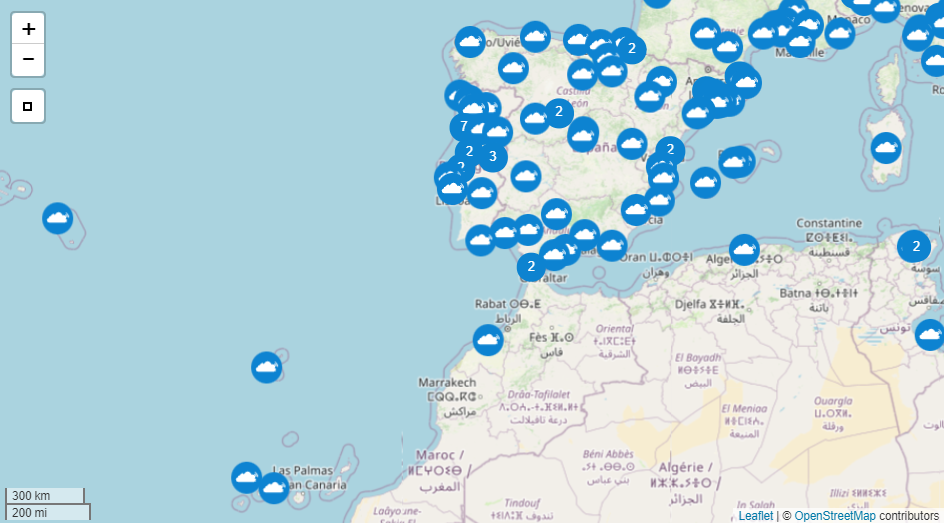
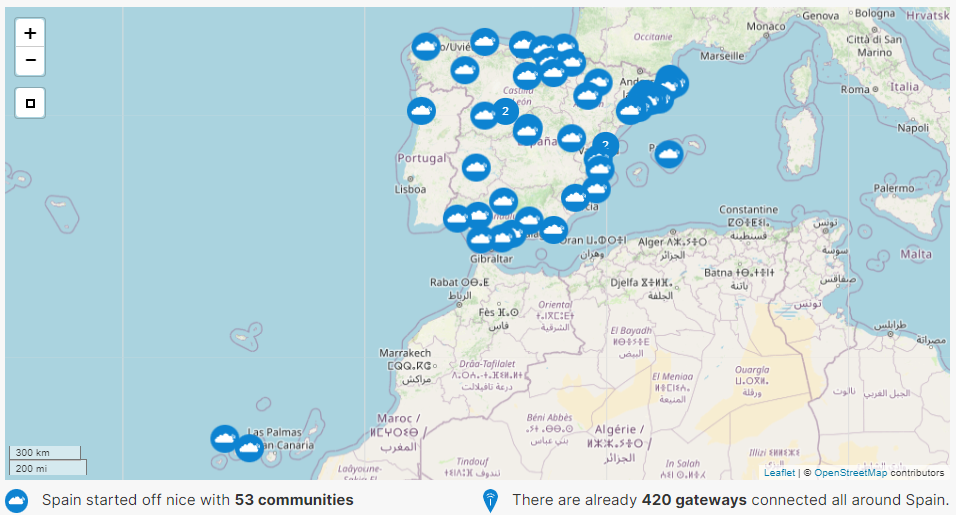
Added content

diff --git a/README.md b/README.md
@@ -31,10 +31,12 @@ Este repositorio pretende listar todos aquellos recursos que vaya encontrando co
 - [Helium - The People's Network](https://www.helium.com/)
 - [LORIOT](https://www.loriot.io/)
 
-## LoRa Alliance (enlaces importantes)
+## 📡 LoRa Alliance (enlaces importantes)
 - Especificación LoRaWAN [v1.0.2](https://lora-alliance.org/resource_hub/lorawan-specification-v1-0-2/) / [v1.0.3](https://lora-alliance.org/resource_hub/lorawan-specification-v1-0-3/) / [v1.0.4](https://lora-alliance.org/resource_hub/lorawan-104-specification-package/)
 - Parámetros regionales de LoRaWAN [v1.0.1](https://lora-alliance.org/resource_hub/rp2-101-lorawan-regional-parameters-2/) / [v1.0.2rB](https://lora-alliance.org/resource_hub/lorawan-regional-parameters-v1-0-2rb/) / [RP2-1.0.2](https://lora-alliance.org/resource_hub/rp2-102-lorawan-regional-parameters/) / [v1.0.3](https://lora-alliance.org/resource_hub/rp2-1-0-3-lorawan-regional-parameters/)
 - [Mapa de Operadores y cobertura de LoRaWAN](https://lora-alliance.org/lorawan-coverage/)
+
+``` ℹ Es una asociación abierta sin ánimo de lucro que tiene por objetivo estandarizar las LPWAN y promover la tecnología LoRaWAN.```
 
 ## 🏭 Plataformas IOT
 - [AdafruitIO](https://io.adafruit.com/)
@@ -61,9 +63,14 @@ Este repositorio pretende listar todos aquellos recursos que vaya encontrando co
 
 ## 👥 Comunidades The Things Network en España
 
-- [Mapa de las comunidades](https://www.thethingsnetwork.org/community) existentes para ponerse en contacto con ellas
+- [Mapa de las comunidades](https://www.thethingsnetwork.org/country/spain/) existentes
 
 ![TTN España](images/spain_ttn_communities.png)
+
+## Helium
+- [Mapa de cobertura mundial](https://explorer.helium.com/)
+- [Proyecto Mappers](https://mappers.helium.com/)
+    - [Documentación del proyecto](https://docs.helium.com/use-the-network/coverage-mapping/)
 
 ## 📱 Lista de canales (no oficiales) de Telegram
 
